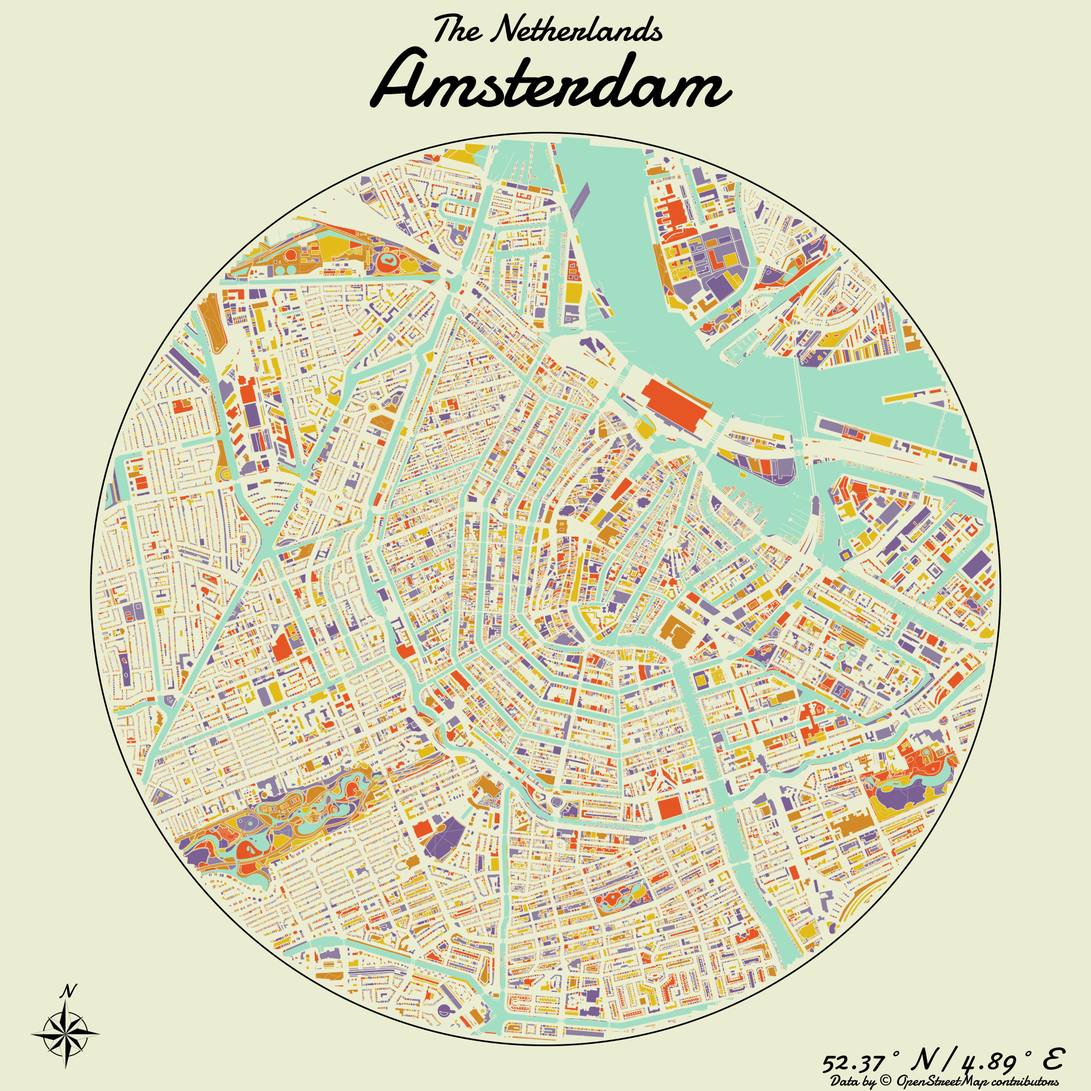
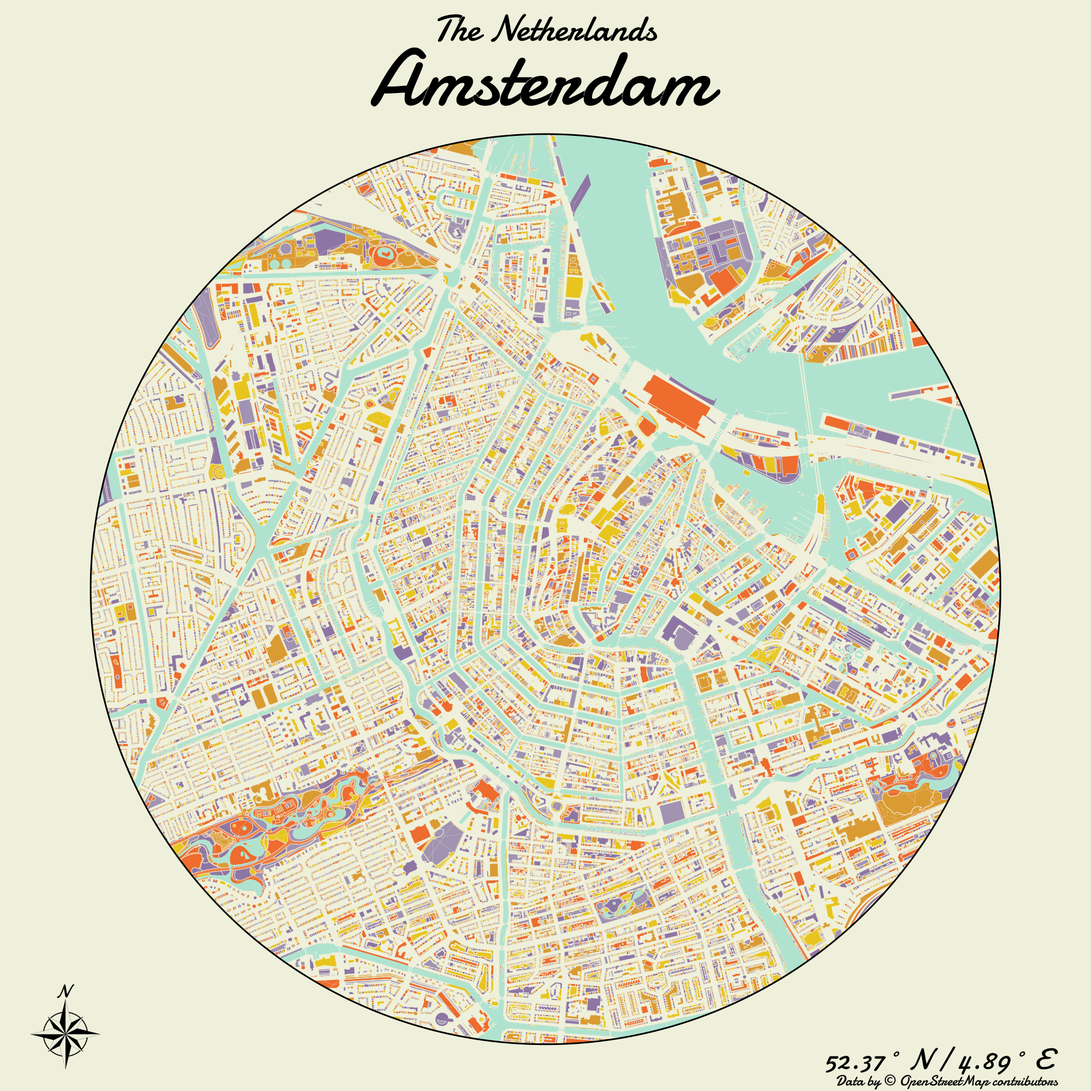
Attempt to fix circle border

diff --git a/README.md b/README.md
@@ -7,7 +7,7 @@
 
 <img src='https://github.com/koenderks/rcityviews/raw/master/man/figures/logo.png' width='149' height='173' alt='logo' align='right' margin-left='20' margin-right='20'/>
 
-This repository is an homage to the programming language `R`, open-source geographic data and the art of map making. It provides code and examples to generate minimalistic city views using data from [OpenStreetMap](https://www.openstreetmap.org/).
+This provides code and examples to generate minimalistic city views using data from [OpenStreetMap](https://www.openstreetmap.org/).
 
 * [Latest city view](#latest-city-view)
 * [Installation](#installation)
@@ -25,14 +25,14 @@ Every 3 hours this repository creates and tweets a view of a random city. You ca
 
 ## Installation
 
-The functionality in this repository is implemented as an `R` package: `rcityviews`. However, the `rcityviews` package is not available on CRAN. It can therefore only be obtained via GitHub by running the following command in `R`:
+The functionality in this repository is implemented as an `R` package: `rcityviews`. However, this package is not available on CRAN and can therefore only be obtained via GitHub by running the following command in `R`:
 
 ```r
 # install.packages("remotes") # Uncomment if you do not have the 'remotes' package installed
 remotes::install_github("koenderks/rcityviews", dependencies = TRUE)
 ```
 
-After installation, the package can be loaded with:
+After installation, the `rcityviews` package can be loaded with:
 
 ```r
 library(rcityviews)
@@ -54,7 +54,7 @@ list_cities(match = "Ams")
 Second, once you have obtained the name of the city you want to view, you can use the `cityview()` function to create a `ggplot2` object. Use the `zoom` argument to zoom in on your city (e.g., `zoom > 1`, speeds up computation time) or zoom out of your city (e.g., `zoom < 0.5`, no buildings will show up on the image).
 
 ```r
-p <- cityview(name = "Amsterdam", zoom = 1, border = "circle")
+p <- cityview(name = "Amsterdam", zoom = 1)
 # see ?cityview for more input parameters of this function
 ```
 
@@ -69,22 +69,22 @@ ggplot2::ggsave(filename = "Amsterdam.png", plot = p, height = 500, width = 500,
 However, you can also do this instantly by providing a filename directly to the `cityview()` function. To save rendering time, the image is exported in an appropriate size and the function does not return a `ggplot2` object.
 
 ```r
-cityview(name = "Amsterdam", border = "circle", filename = "Amsterdam.png")
+cityview(name = "Amsterdam", filename = "Amsterdam.png")
 ```
 
 <p align="center">
   <img src='https://github.com/koenderks/rcityviews/raw/master/png/Amsterdam_circle_border.png' width='400' height='400'>
 </p>
 
-For printing, it is recommended to use the option `license = FALSE` and save the image to a `.pdf` or `.svg` file, see below. Afterwards, it is best printed in a `500mm x 500mm` format.
+For personal (non-commercial) printing it is recommended to use the option `license = FALSE` and save the image to a `.pdf` or `.svg` file, as shown below. Afterwards, the image is best printed in a `500mm x 500mm` format.
 
 ```r
-cityview(name = "Amsterdam", border = "circle", filename = "Amsterdam.pdf", license = FALSE)
+cityview(name = "Amsterdam", filename = "Amsterdam.pdf", license = FALSE)
 ```
 
 ### Border styles
 
-You can select different types of borders to enclose the city. The image above is created using `border = "circle"`, but other options for the `border` argument include `none` (left), `rhombus` (middle), `square`, `hexagon`, `octagon`, and `decagon` (right).
+You can select different types of borders to enclose the city. The image above is created using `border = "circle"` (default), but other options for the `border` argument include `none` (left), `rhombus` (middle), `square`, `hexagon`, `octagon`, and `decagon` (right).
 
 <p align="center">
   <img src='https://github.com/koenderks/rcityviews/raw/master/png/Amsterdam_no_border.png' width='250' height='250'>
@@ -94,7 +94,7 @@ You can select different types of borders to enclose the city. The image above i
 
 ### Themes
 
-You can select different themes for the image. The images above are created using `theme = "original"`, but other options for the `theme` argument include `light` (top left), `dark` (middle left), `rouge` (top middle), `verde` (middle middle), `colored` (top right), `neon` (middle right), `delftware` (bottom left), `vintage` (bottom middle) and `lichtenstein` (bottom right).
+You can also select different themes for the image. The images above are created using `theme = "original"`, but other options for the `theme` argument include `light` (top left), `dark` (middle left), `rouge` (top middle), `verde` (middle middle), `colored` (top right), `neon` (middle right), `delftware` (bottom left), `vintage` (bottom middle) and `lichtenstein` (bottom right).
 
 <p align="center">
   <img src='https://github.com/koenderks/rcityviews/raw/master/png/Amsterdam_light.png' width='250' height='250'>
@@ -112,7 +112,7 @@ You can select different themes for the image. The images above are created usin
 
 ### Other display options
 
-There are three other arguments of the `cityview()` function you can adjust to tailor the image to your liking. First, the argument `halftone` allows you to add a dotted dither to the image (left). The halftone options `light` (white dots) and `dark` (black dots) can be used to adjust the color of the dots. Second, the argument `places` takes an integer and adds that amount of names of suburbs, quarters and neighbourhoods to the image (middle). Third, setting `ruler = TRUE` adds a distance measurer to the image (right). Naturally, one may also combine these three arguments.
+There are three other arguments to the `cityview()` function that you can use to tailor the image to your liking. First, the argument `halftone` allows you to add a dotted dither to the image (left). Its possible options `light` (white dots) and `dark` (black dots) can be used to specify the color of the dots. Second, the argument `places` takes an integer and adds that amount of names of towns, villages, suburbs, quarters and neighbourhoods to the image (middle). Third, setting `ruler = TRUE` adds a distance measurer to the image (right). Naturally, you can also combine these settings.
 
 <p align="center">
   <img src='https://github.com/koenderks/rcityviews/raw/master/png/Amsterdam_halftone.png' width='250' height='250'>
